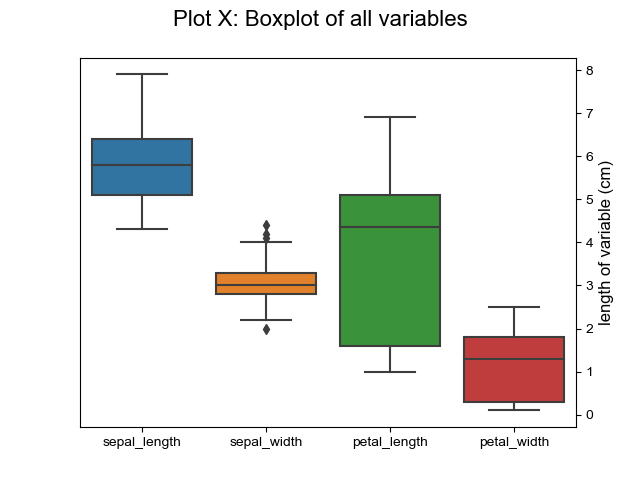
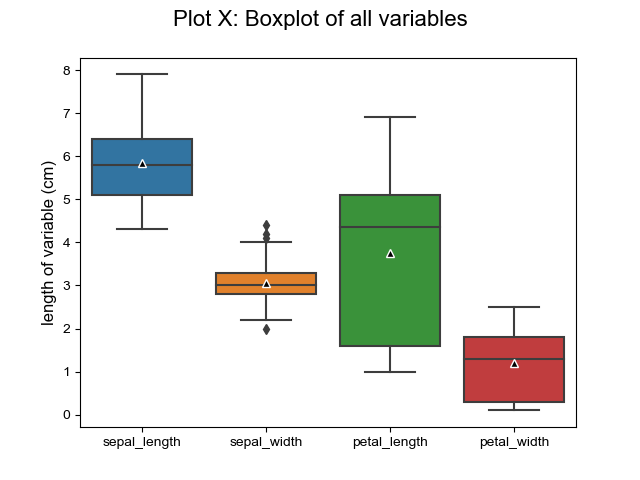
test

diff --git a/Project/analysis.py b/Project/analysis.py
@@ -110,20 +110,15 @@ def plot_histograms():
 
 
 def plot_box_plot():
-    # reference: https://www.python-graph-gallery.com/30-basic-boxplot-with-seaborn
-
-    ax = sns.boxplot(data = iris_df.loc[:, ['sepal_length', 'sepal_width', 'petal_length', 'petal_width']])
-    plt.suptitle('Plot X: Boxplot of all variables',fontsize = 16)
+    # reference: https://stackoverflow.com/questions/54132989/is-there-a-way-to-change-the-color-and-shape-indicating-the-mean-in-a-seaborn-bo
+    box_plot_data = iris_df.loc[:, ['sepal_length', 'sepal_width', 'petal_length', 'petal_width']]
+    ax = sns.boxplot(data = box_plot_data,showmeans=True, meanprops={"markerfacecolor":"black","markeredgecolor":"white"})
     
-    ax.set_ylabel('length of variable (cm)', fontsize=12) 
-    ax.yaxis.set_label_position("right")
-    ax.yaxis.tick_right()
-    
+    plt.suptitle('Plot X: Boxplot of all variables',fontsize = 16) 
+    ax.set_ylabel('length of variable (cm)', fontsize=12)  
     sns.set(style="darkgrid")
     
     plt.savefig('Images/' + 'box_plot' +'.png')
-    plt.show()
-
 
 plot_box_plot()
 

diff --git a/Project/README.md b/Project/README.md
@@ -191,6 +191,9 @@ If one was dealing with larger datasets it would be unlikely that a null count o
 __Descriptive Statistical Analysis__ [] <br/>
 
 
+The pandas *describe()* function is very useful quick statistics on a given dataset. This function was used to establish the min, max, mean, standard deviations, ranges, skewness/kurtosis and a few other important measurements pertaining to the Iris flower anatomy. Tables (Pandas DataFrames) and figures, i.e. A barplot and histograms were used for graphical representation of descriptive features of the dataset attributes.
+
+Firstly, I established a summary for each Iris flower attribute by using the "describe" method from the Pandas library. This function returns a nice statistical summary of the data including the count, mean, min and max values as well as some upper and lower percentiles. For example, looking at the summary output we see that the sepal length mean is highest at 5.84cm while the petal width mean is notably low at 1.19cm. Another interesting feature is that sepal length ranges from 4.3cm to 7.9cm, while petal width has a much lower range of 0.1cm to 2.5cm. The median (middle) measurement of each column is represented by the 50th percentile row.
 
 
 <img src="Images/summary_traits.png"  width="525"/>|
